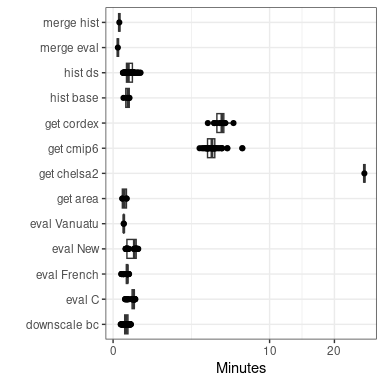
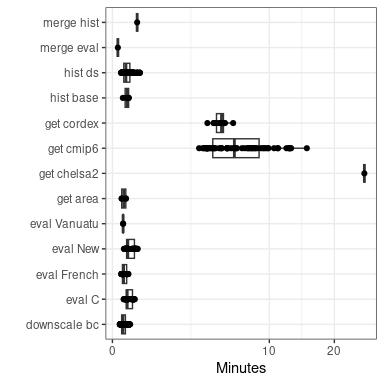
All CMIP6 figs

diff --git a/README.md b/README.md
@@ -1,6 +1,6 @@
 # DownClim - Downscale Climate Projections
 Sylvain Schmitt -
-Apr 8, 2024
+Apr 10, 2024
 
 - [Installation](#installation)
 - [Credentials](#credentials)
@@ -288,4 +288,8 @@ mamab activate dev-dc
 
 # Results
 
-![](README_files/figure-commonmark/eval2-1.png)
+![](README_files/figure-commonmark/hists_tas-1.png)
+
+![](README_files/figure-commonmark/hists_pr-1.png)
+
+![](README_files/figure-commonmark/eval-1.png)
